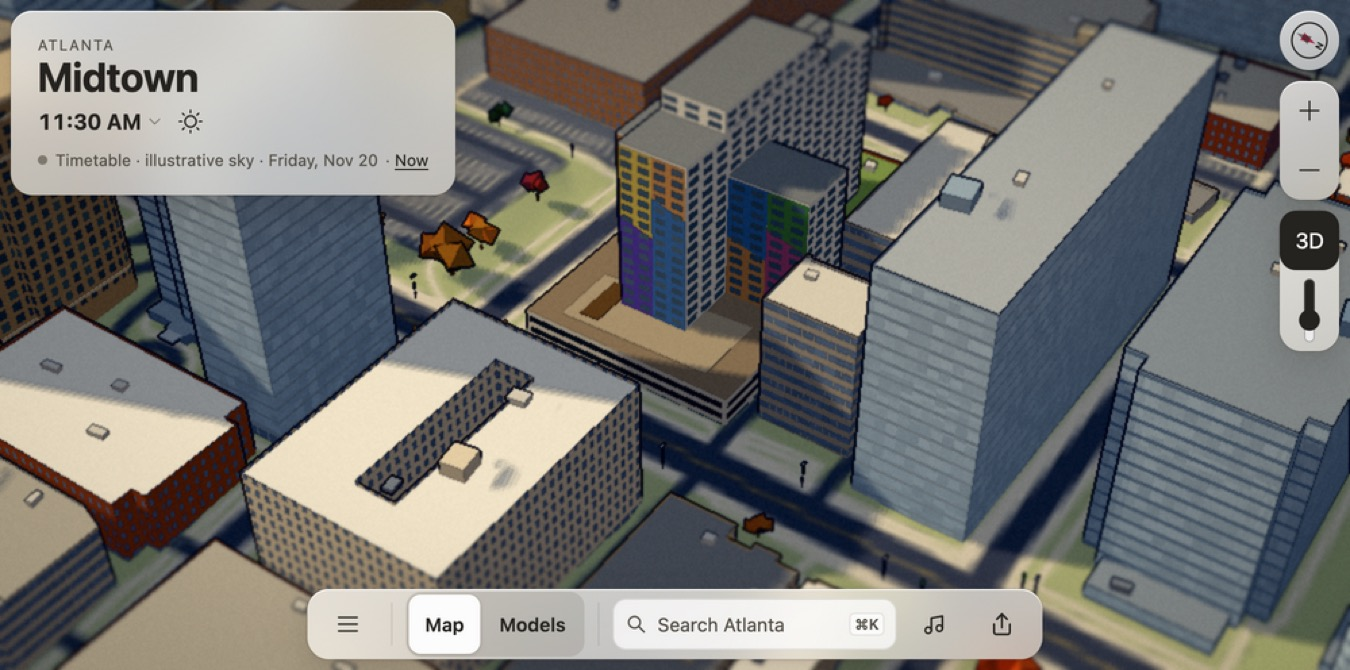
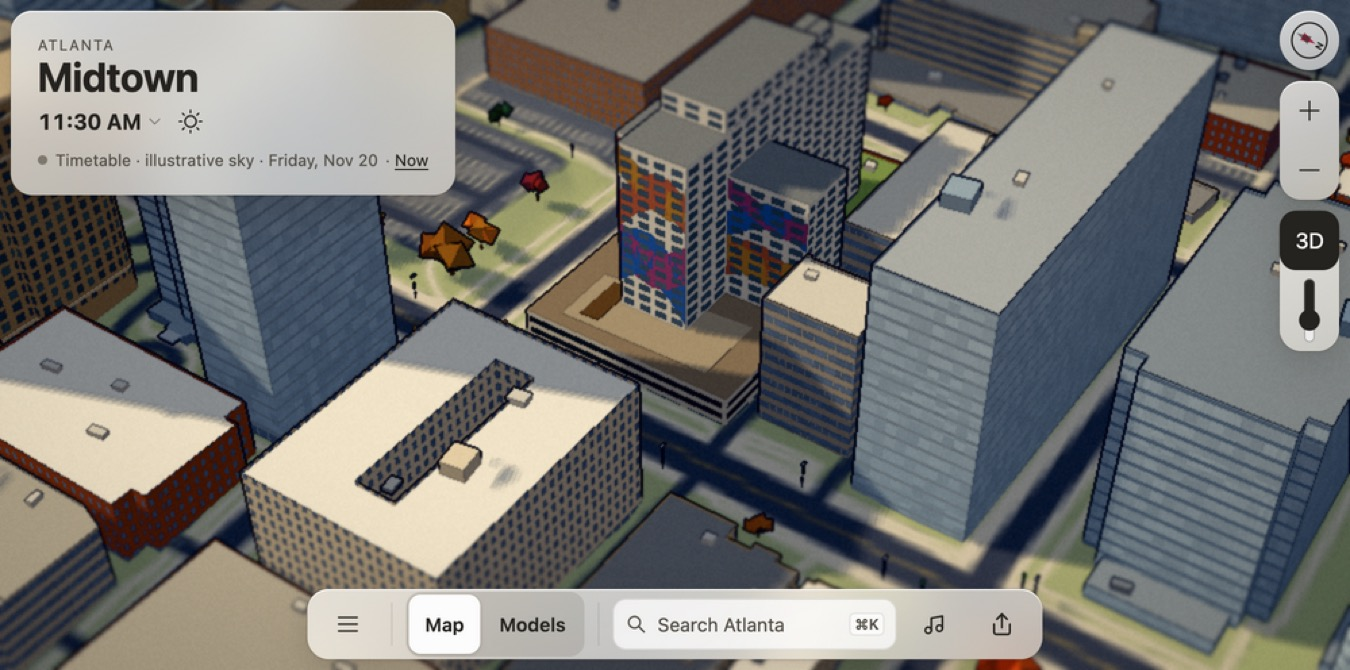
Paint Crest on Peachtree's mural as sweeping arcs in four related hues
Replaces the grid-aligned colour bands with broad curved strips in the deck
photo's blue, magenta-pink, coral and amber at a narrow value range, white
wall between; extent remains inferred.

Changed region(s): [[0.4356, 0.209, 0.6222, 0.4776], [0.4978, 0.4776, 0.5289, 0.5075]]

diff --git a/web/src/city/crest-on-peachtree.ts b/web/src/city/crest-on-peachtree.ts
@@ -14,9 +14,9 @@ const origin: P2 = [584, -2242];
 const slabId = 'osm:way:1343480983';
 const wingIds = ['osm:way:1343480981', 'osm:way:1343480982'];
 const slabCentre: P2[] = [[-33, -10.9], [7, -7.9], [5.6, 9.9], [-33.9, 7.3]];
-// Mural colours from the deck photograph: broad abstract bands of pink, orange, yellow,
-// green and blue on the walls that rise above the deck.
-const mural = ['#c37597', '#d1a47d', '#d2c17e', '#5f9e68', '#6b8cb2', '#8468ad'];
+// Mural look-alike from the deck photograph: big sweeping arcs of blue, magenta-pink and
+// coral on the white wall. Four related hues at a narrow value range; extent inferred.
+const mural = ['#5b7fb8', '#b9668f', '#cc7f6c', '#cfa064'];
 
 export function createCrestOnPeachtree(buildings: VBuilding[], site: VBuilding, grid: GroundGrid, quality: TerrainQuality) {
   // Low tier groups windows in pairs, halves the mural bands and keeps the street glass coarse.
@@ -82,16 +82,26 @@ export function createCrestOnPeachtree(buildings: VBuilding[], site: VBuilding, 
       // An east-facing wall above the deck carries the mural behind its windows.
       const nx = (b[1] - a[1]) / length;
       if (nx > 0.7 && lo <= deck + 0.01) {
-        const bands = Math.max(2, Math.round(length / (high ? 6 : 12)));
+        // Sweeping arcs, each a curved strip across the wall with white wall showing between.
+        const segs = high ? 8 : 4;
         const out = (t: number, y: number): [number, number, number] =>
           [a[0] + t * (b[0] - a[0]) + 0.035 * (b[1] - a[1]) / length, y, a[1] + t * (b[1] - a[1]) - 0.035 * (b[0] - a[0]) / length];
-        for (let k = 0; k < bands; k++) {
-          const l = k / bands, r = (k + 1) / bands;
-          // Two colours per band, split on a slant so the bands read as sweeping shapes.
-          const split = deck + 2 + (top - deck - 4) * (0.3 + 0.4 * ((k * 3 + face) % 5) / 4);
-          shell.body.quad(out(l, deck), out(l, split), out(r, split + 3), out(r, deck), mural[(k + face) % mural.length]);
-          shell.body.quad(out(l, split), out(l, top - 0.6), out(r, top - 0.6), out(r, split + 3), mural[(k + face + 3) % mural.length]);
-        }
+        const span = top - deck - 2;
+        const arcs = [
+          { base: 0.02, rise: 0.22, thick: 0.30, colour: 0 },
+          { base: 0.34, rise: -0.16, thick: 0.24, colour: 1 },
+          { base: 0.50, rise: 0.20, thick: 0.22, colour: 2 },
+          { base: 0.80, rise: -0.14, thick: 0.18, colour: 3 },
+        ];
+        arcs.forEach((arc, n) => {
+          const colour = mural[(arc.colour + face) % mural.length];
+          const y = (t: number) => deck + 1 + span * (arc.base + arc.rise * Math.sin(Math.PI * (t * 0.8 + 0.1 * n)));
+          for (let k = 0; k < segs; k++) {
+            const l = k / segs, r = (k + 1) / segs;
+            const h = span * arc.thick;
+            shell.body.quad(out(l, y(l)), out(l, Math.min(top - 0.6, y(l) + h)), out(r, Math.min(top - 0.6, y(r) + h)), out(r, y(r)), colour);
+          }
+        });
       }
       const from = lo <= datum + 0.01 ? datum + 4.6 : lo + 0.3;
       if (lo <= datum + 0.01) litFacade(shell, seed, face++, a, b, datum + 0.4, datum + 4.2, 1, high ? 3.4 : 12, 0.8, 0.84, storefront, 0.35);

diff --git a/docs/log/ui/crest-on-peachtree/README.md b/docs/log/ui/crest-on-peachtree/README.md
@@ -11,7 +11,7 @@ City replaces the generic mesh for `osm:way:234938416`, Crest on Peachtree at 71
 
 The garage roof is the residents' deck.
 
-The photographs show a plain white tower with tight punched windows. Street View on Peachtree shows white façades, a dark garage screen at the base and a small lobby. The listing photograph taken from the roof deck shows a large abstract mural in sweeping pink, orange, yellow, green, blue and purple shapes, covering the walls that rise above the deck. City paints those deck-facing east walls (the slab end and the two wings above the 11.5 m deck) in broad slanted colour bands behind the windows. **Inferred:** the exact extent of the mural, the shapes of the bands, and which walls beyond the two in the photograph are painted. No source names the artist or describes the mural. Estimated details: the 2.6 m window bay and 3 m floor pitch, the deck layout, and the 4.2 m lobby glass.
+The photographs show a plain white tower with tight punched windows. Street View on Peachtree shows white façades, a dark garage screen at the base and a small lobby. The listing photograph taken from the roof deck shows a large abstract mural in sweeping pink, orange, yellow, green, blue and purple shapes, covering the walls that rise above the deck. City paints an abstract look-alike on the deck-facing east walls (the slab end and the two wings above the 11.5 m deck): four broad sweeping arcs in the photo's dominant family of blue, magenta-pink, coral and amber, at a narrow value range, with white wall between them and the windows in front. **Inferred:** the mural's extent, its shapes, and which walls beyond the two in the photograph are painted. No source names the artist or describes the mural. Estimated details: the 2.6 m window bay and 3 m floor pitch, the deck layout, and the 4.2 m lobby glass.
 
 Sources, consulted in a fresh Orca tab:
 - [Apartments.com listing photographs](https://www.apartments.com/crest-on-peachtree-atlanta-ga/2mpprxb/): the mural above the deck, and the deck itself.
